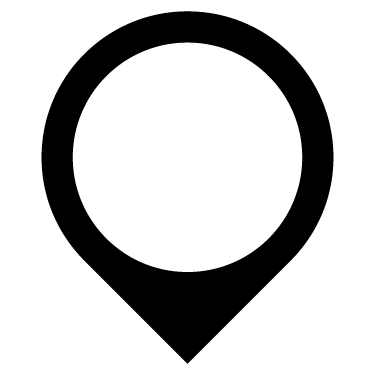
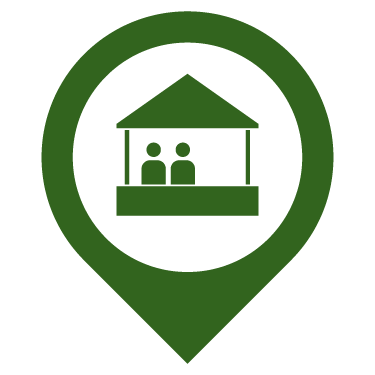
UPdating Temporary icoon for issue #16

Changed region(s): [[0.088, 0.0293, 0.9093, 0.968], [0.2933, 0.2053, 0.704, 0.5867]]

diff --git a/public/js/app/views/mapView.js b/public/js/app/views/mapView.js
@@ -142,6 +142,12 @@ define([
 		iconAnchor:[15,15]
 	}),
 
+	// 	bank: L.icon({
+	// 	iconUrl:'../style/assets/bank.png',
+	// 	iconSize:[40,40],
+	// 	iconAnchor:[15,15]
+	// }),
+
 	temporary: L.icon({
 		iconUrl:'../style/assets/temporary.png',
 		iconSize:[40,40],
